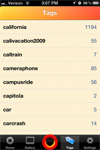
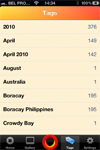
Updated all screenshots

diff --git a/src/templates/screenshots.php b/src/templates/screenshots.php
@@ -7,18 +7,23 @@
 <h2>OpenPhoto on your laptop</h2>
 <ul class="media-grid">
   <li>
-    <a href="/img/screenshots/web-list.png" class="inherit screenshot-link">
-      <img class="thumbnail" src="/img/screenshots/web-list-thumb.png" alt="">
+    <a href="/img/screenshots/web-home.png" class="inherit screenshot-link">
+      <img class="thumbnail" src="/img/screenshots/web-home-thumb.png" alt="">
     </a>
   </li>
   <li>
-    <a href="/img/screenshots/web-detail.png" class="inherit screenshot-link">
-      <img class="thumbnail" src="/img/screenshots/web-detail-thumb.png" alt="">
+    <a href="/img/screenshots/web-gallery.png" class="inherit screenshot-link">
+      <img class="thumbnail" src="/img/screenshots/web-gallery-thumb.png" alt="">
     </a>
   </li>
   <li>
     <a href="/img/screenshots/web-tags.png" class="inherit screenshot-link">
       <img class="thumbnail" src="/img/screenshots/web-tags-thumb.png" alt="">
+    </a>
+  </li>
+  <li>
+    <a href="/img/screenshots/web-manage.png" class="inherit screenshot-link">
+      <img class="thumbnail" src="/img/screenshots/web-manage-thumb.png" alt="">
     </a>
   </li>
 </ul>
@@ -31,8 +36,13 @@
     </a>
   </li>
   <li>
-    <a href="/img/screenshots/mobile-list.png" class="inherit screenshot-link">
-      <img class="thumbnail" src="/img/screenshots/mobile-list-thumb.png" alt="">
+    <a href="/img/screenshots/mobile-newest.png" class="inherit screenshot-link">
+      <img class="thumbnail" src="/img/screenshots/mobile-newest-thumb.png" alt="">
+    </a>
+  </li>
+  <li>
+    <a href="/img/screenshots/mobile-gallery.png" class="inherit screenshot-link">
+      <img class="thumbnail" src="/img/screenshots/mobile-gallery-thumb.png" alt="">
     </a>
   </li>
   <li>
@@ -45,34 +55,24 @@
       <img class="thumbnail" src="/img/screenshots/mobile-tags-thumb.png" alt="">
     </a>
   </li>
-  <li>
-    <a href="/img/screenshots/mobile-settings.png" class="inherit screenshot-link">
-      <img class="thumbnail" src="/img/screenshots/mobile-settings-thumb.png" alt="">
-    </a>
-  </li>
 </ul>
 
 
 <h2>OpenPhoto on mobile phones (mobile web)</h2>
 <ul class="media-grid">
   <li>
-    <a href="/img/screenshots/web-mobile-vertical-home.png" class="inherit screenshot-link">
-      <img class="thumbnail" src="/img/screenshots/web-mobile-vertical-home-thumb.png" alt="">
+    <a href="/img/screenshots/web-mobile-home.png" class="inherit screenshot-link">
+      <img class="thumbnail" src="/img/screenshots/web-mobile-home-thumb.png" alt="">
     </a>
   </li>
   <li>
-    <a href="/img/screenshots/web-mobile-vertical-list.png" class="inherit screenshot-link">
-      <img class="thumbnail" src="/img/screenshots/web-mobile-vertical-list-thumb.png" alt="">
+    <a href="/img/screenshots/web-mobile-gallery.png" class="inherit screenshot-link">
+      <img class="thumbnail" src="/img/screenshots/web-mobile-gallery-thumb.png" alt="">
     </a>
   </li>
   <li>
-    <a href="/img/screenshots/web-mobile-vertical-detail.png" class="inherit screenshot-link">
-      <img class="thumbnail" src="/img/screenshots/web-mobile-vertical-detail-thumb.png" alt="">
-    </a>
-  </li>
-  <li>
-    <a href="/img/screenshots/web-mobile-vertical-tags.png" class="inherit screenshot-link">
-      <img class="thumbnail" src="/img/screenshots/web-mobile-vertical-tags-thumb.png" alt="">
+    <a href="/img/screenshots/web-mobile-tags.png" class="inherit screenshot-link">
+      <img class="thumbnail" src="/img/screenshots/web-mobile-tags-thumb.png" alt="">
     </a>
   </li>
 </ul>
